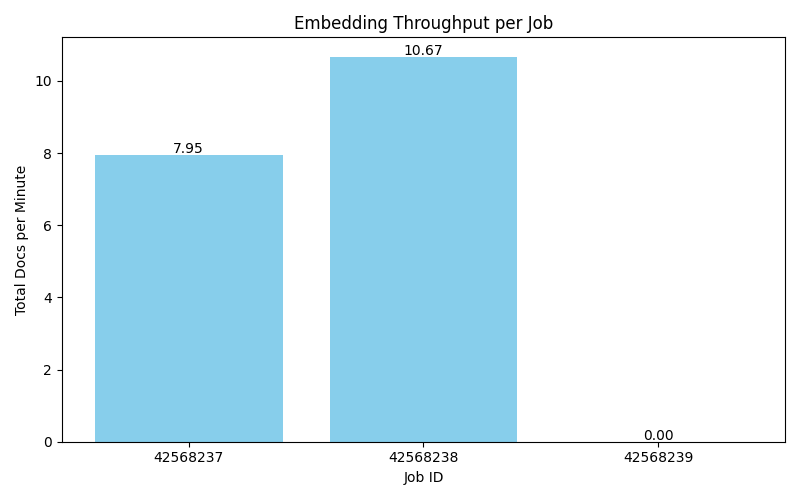
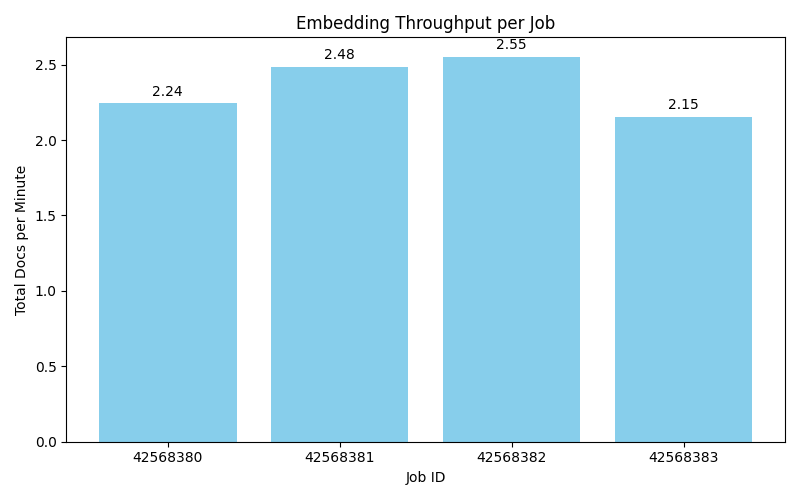
updated workflow script

diff --git a/BALSAM/DUNEGPT_polaris_cursor_balsam/scripts/app/embed_docdb_indico.py b/BALSAM/DUNEGPT_polaris_cursor_balsam/scripts/app/embed_docdb_indico.py
@@ -7,9 +7,8 @@ Create and store Embeddings
 yaml_file_path = '/lus/flare/projects/LLM_for_DUNE/users/Rishika/LLM_for_DUNE/BALSAM/DUNEGPT_polaris_cursor_balsam/specs/embed_docdb_indico/embed_docdb_indico.yaml'
 site_name = "DUNEGPT_polaris_cursor_balsam"
  
-path_to_python = f"/lus/flare/projects/LLM_for_DUNE/users/Rishika/LLM_for_DUNE/BALSAM/"
+path_to_python = "/lus/flare/projects/LLM_for_DUNE/users/Rishika/LLM_for_DUNE/BALSAM/DUNEGPT_polaris_cursor_balsam"
 path_module = f"/lus/flare/projects/LLM_for_DUNE/users/Rishika/LLM_for_DUNE/DUNE_polaris_cursor"
-
 """
 Functions
 """
@@ -36,27 +35,43 @@ class embed(ApplicationDefinition):
     environment_variables = env
     
     command_template = (
-            f"{path_to_python}/new_venv/bin/python3 cli.py index"
+        f"{path_to_python}/new_venv/bin/python3.11 cli.py index"
     )
-
 
     def shell_preamble(self):
         return f'''
+        cd ~
+        wget https://www.sqlite.org/2024/sqlite-autoconf-3450100.tar.gz
+        tar xzf sqlite-autoconf-3450100.tar.gz
+        cd sqlite-autoconf-3450100
+        ./configure --prefix=$HOME/sqlite3
+        make
+        make install
+
+        export CFLAGS="-I$HOME/sqlite3/include"
+        export LDFLAGS="-L$HOME/sqlite3/lib"
+        export LD_LIBRARY_PATH=$HOME/sqlite3/lib:$LD_LIBRARY_PATH
+
+
         export INDEX={self.job.data["i"]}
         export DOCUMENT_LIMIT={self.job.tags["document_limit"]}
         export DDB_START_IDX={self.job.data["ddb_start"]}
         export IND_START_IDX={self.job.data["ind_start"]}
+
         module load autoconf cmake
         module load frameworks
         module load cmake
         module use /soft/modulefiles
+
         cd {path_to_python}
         source {path_to_python}/new_venv/bin/activate
+        ./new_venv/bin/pip install chromadb
+        echo Installed
+        ./new_venv/bin/pip install -r {path_module}/requirements.txt
         cd {path_module}
-        python3 -m spacy download en_core_web_sm
-        python3 update_sqlite.py
-        python3 {path_module}/config.py
-
+        {path_to_python}/new_venv/bin/python3.11 -m spacy download en_core_web_sm
+        {path_to_python}/new_venv/bin/python3.11 update_sqlite.py --venv_path {path_to_python}/new_venv
+        python {path_module}/config.py
         '''
 
 embed.sync()

diff --git a/BALSAM/DUNEGPT_polaris_cursor_balsam/scripts/utils/analytics.py b/BALSAM/DUNEGPT_polaris_cursor_balsam/scripts/utils/analytics.py
@@ -53,28 +53,35 @@ for ev in sorted(events, key=lambda e: (e.job_id, e.timestamp)):
 job_labels = []
 docs_processed = []
 durations = []
-
+start_times=[]
+end_times=[]
 print("\nJob run durations:")
 for job in jobs:
     print(f"Tags: {job.tags}")
     job_id = job.id
     job_labels.append(str(job_id))
 
-    doc_count = int(job.tags.get("doc_count", 0))  # fallback to 0
+    doc_count = int(job.tags.get("document_limit", 0))  # fallback to 0
     docs_processed.append(doc_count)
 
     times = job_times.get(job_id, {})
+    
     if 'start' in times and 'end' in times:
         duration = (times['end'] - times['start']).total_seconds() / 60
         durations.append(duration)
         print(f"Job {job_id} ran for {duration:.2f} minutes")
+
+        start_times.append(times['start'])
+        end_times.append(times['end'])
     else:
         durations.append(0)
         print(f"Job {job_id} missing start or end time")
 
+#Record duration of run
+start_times.sort()
+end_times.sort()
+print(f"Took {end_times[-1] - start_times[0]} to extract {sum(docs_processed)} events")
 # Plot throughput (docs/minute)
-docs_processed = [40, 32, 0]
-links_processed = [50,60,0]
 throughput = [d / t if t > 0 else 0 for d, t in zip(docs_processed, durations)]
 print(f"Throughput for {job_ids[0]} = {throughput}")
 plt.figure(figsize=(8, 5))
@@ -115,7 +122,6 @@ for i, job in enumerate(jobs):
     config[job.id]['docdb_throughput'] = throughput[i]
     config[job.id]['job_duration'] = durations[i]
     config[job.id]['docs_processed_docdb'] = docs_processed[i]
-config['total_documents'] = sum(links_processed[:len(jobs)])
 save_to_json(config, file)
 
 

diff --git a/BALSAM/DUNEGPT_polaris_cursor_balsam/scripts/workflows/embed_docdb_indico.py b/BALSAM/DUNEGPT_polaris_cursor_balsam/scripts/workflows/embed_docdb_indico.py
@@ -1,9 +1,13 @@
+import os
+
+#os.environ["PATH"] = "/lus/flare/projects/LLM_for_DUNE/users/Rishika/LLM_for_DUNE/BALSAM/DUNEGPT_polaris_cursor_balsam/balsam_venv/bin:" + os.environ["PATH"]
+#os.environ["PYTHONHOME"] = "/lus/flare/projects/LLM_for_DUNE/users/Rishika/LLM_for_DUNE/BALSAM/DUNEGPT_polaris_cursor_balsam/balsam_venv/"
 from balsam.api import ApplicationDefinition, BatchJob, Job, Site
 import yaml
 
 #Machine variables
 #########################
-queue = "debug"         # debug or prod 
+queue = "prod"         # debug or prod 
 project="LLM_for_DUNE" #
 job_mode="mpi"          #
 #########################
@@ -36,13 +40,13 @@ version = "v0"
 """
 Functions
 """
-
+num_jobs=4
+num_nodes=2
 begin_index = 0 #0
-spill_size = 1 #4
-end_index = 1 #4
-wall_time_min = 30 #180
-num_nodes = 1 #4
-doc_limit = 25000 #if queue == 'prod' else 50
+spill_size = num_nodes #4
+end_index = num_jobs #4
+wall_time_min = 180 #180
+doc_limit = 250 #if queue == 'prod' else 50
 def create_single_dependent_job(app_id, i, parent_ids, params, node_packing_count, start):
     params.update({"i": i})
     Job.objects.create( app_id=app_id,

diff --git a/BALSAM/DUNEGPT_polaris_cursor_balsam/scripts/workflows/test.py b/BALSAM/DUNEGPT_polaris_cursor_balsam/scripts/workflows/test.py
@@ -1,0 +1,4 @@
+from balsam.api import Job
+job = Job.objects.get(42568374)
+print(job.tags)
+
